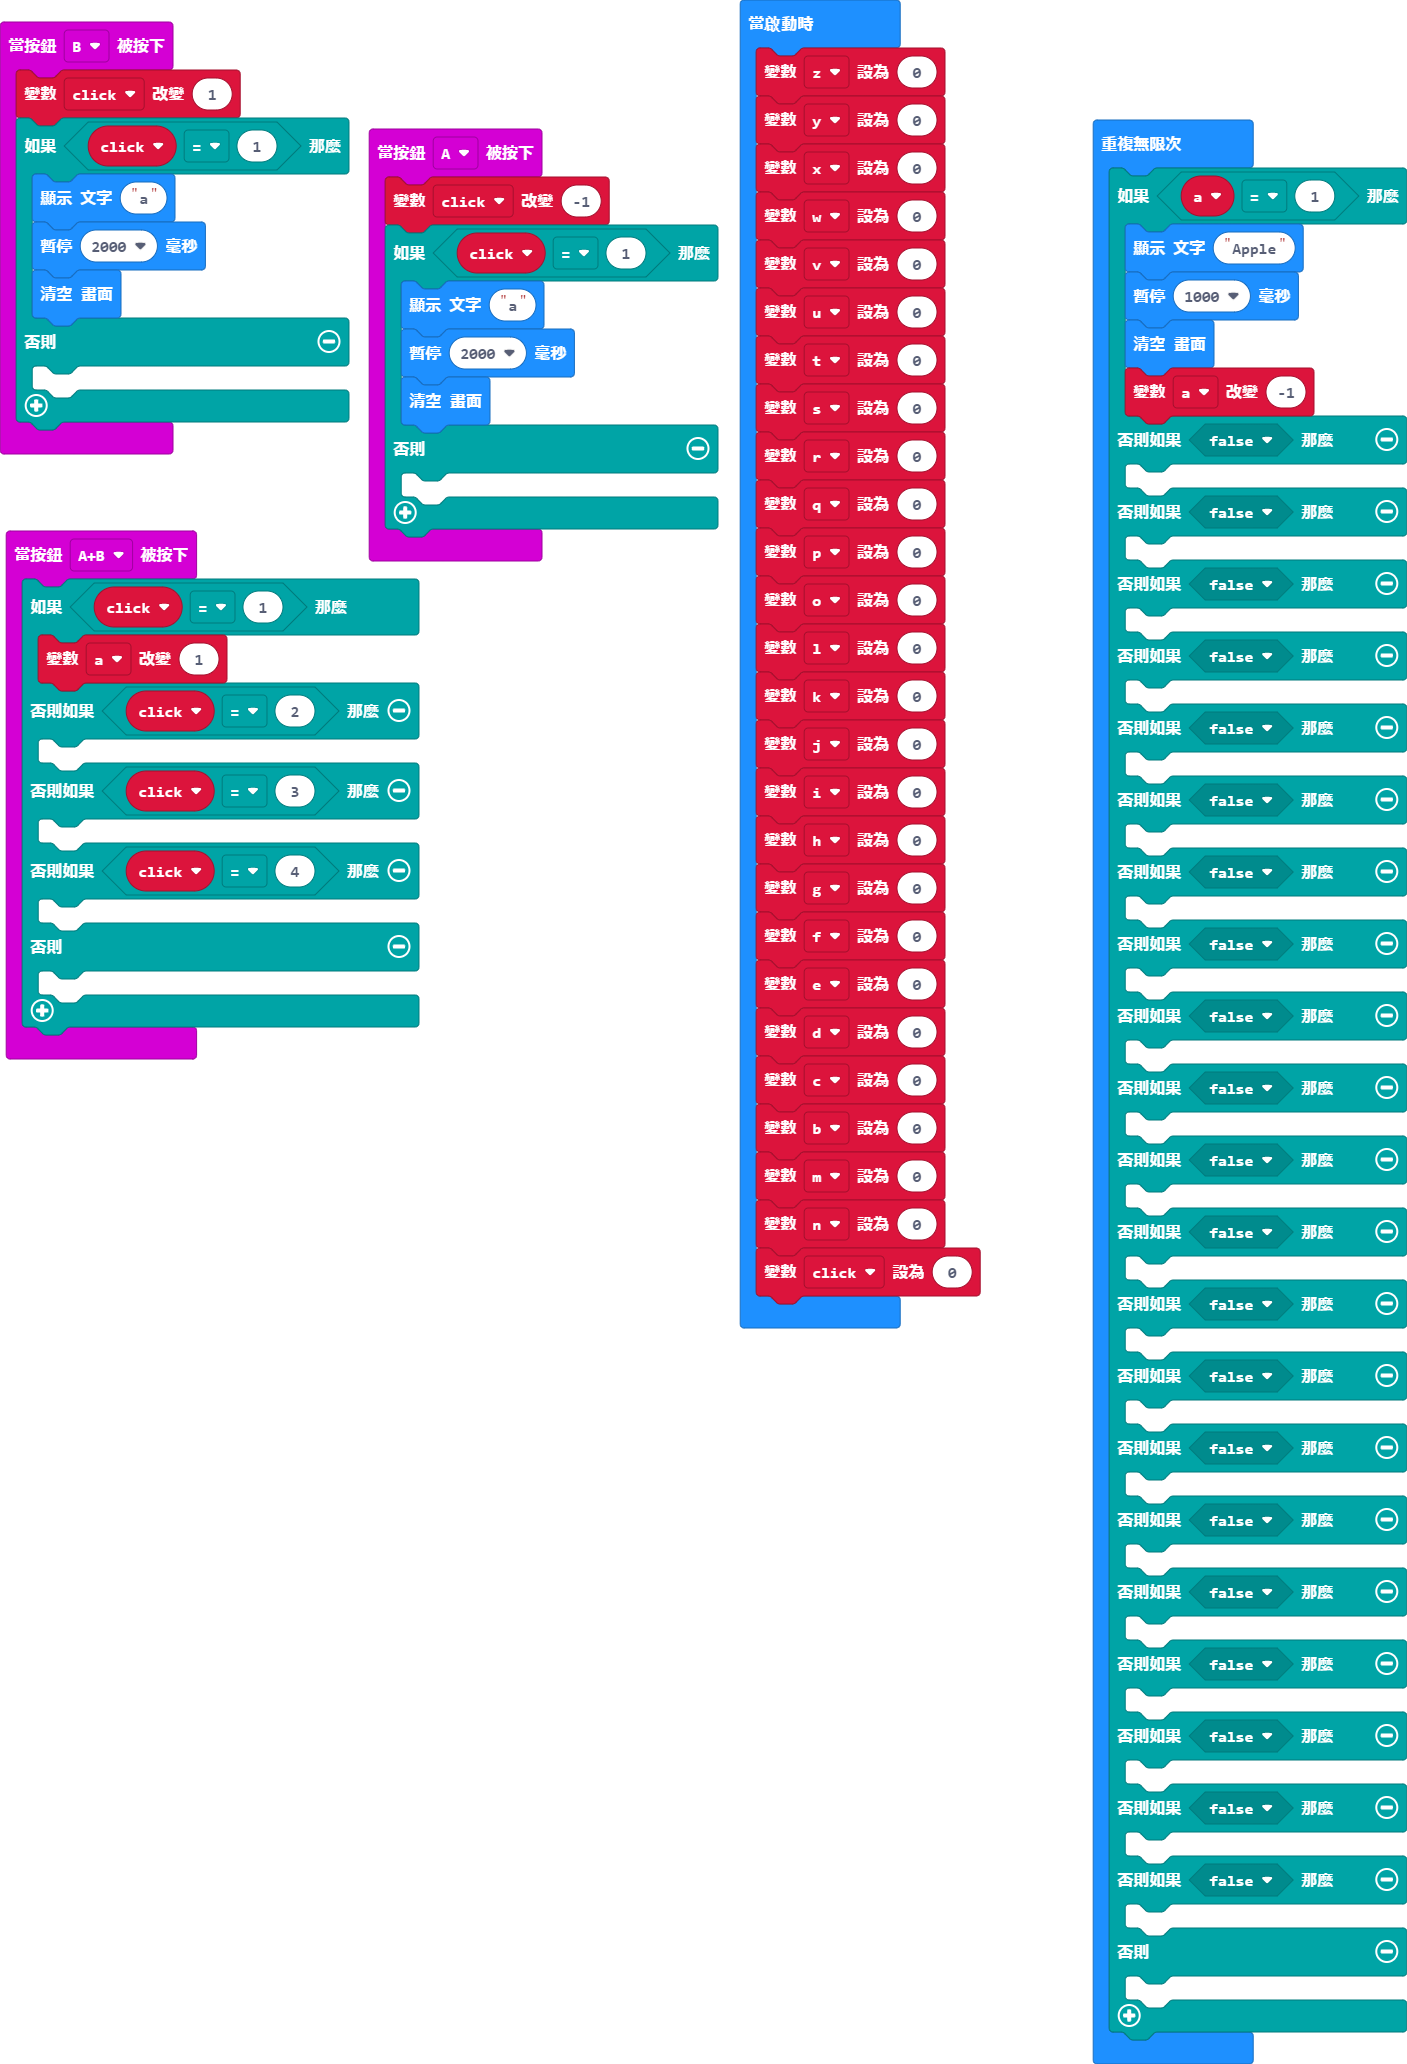
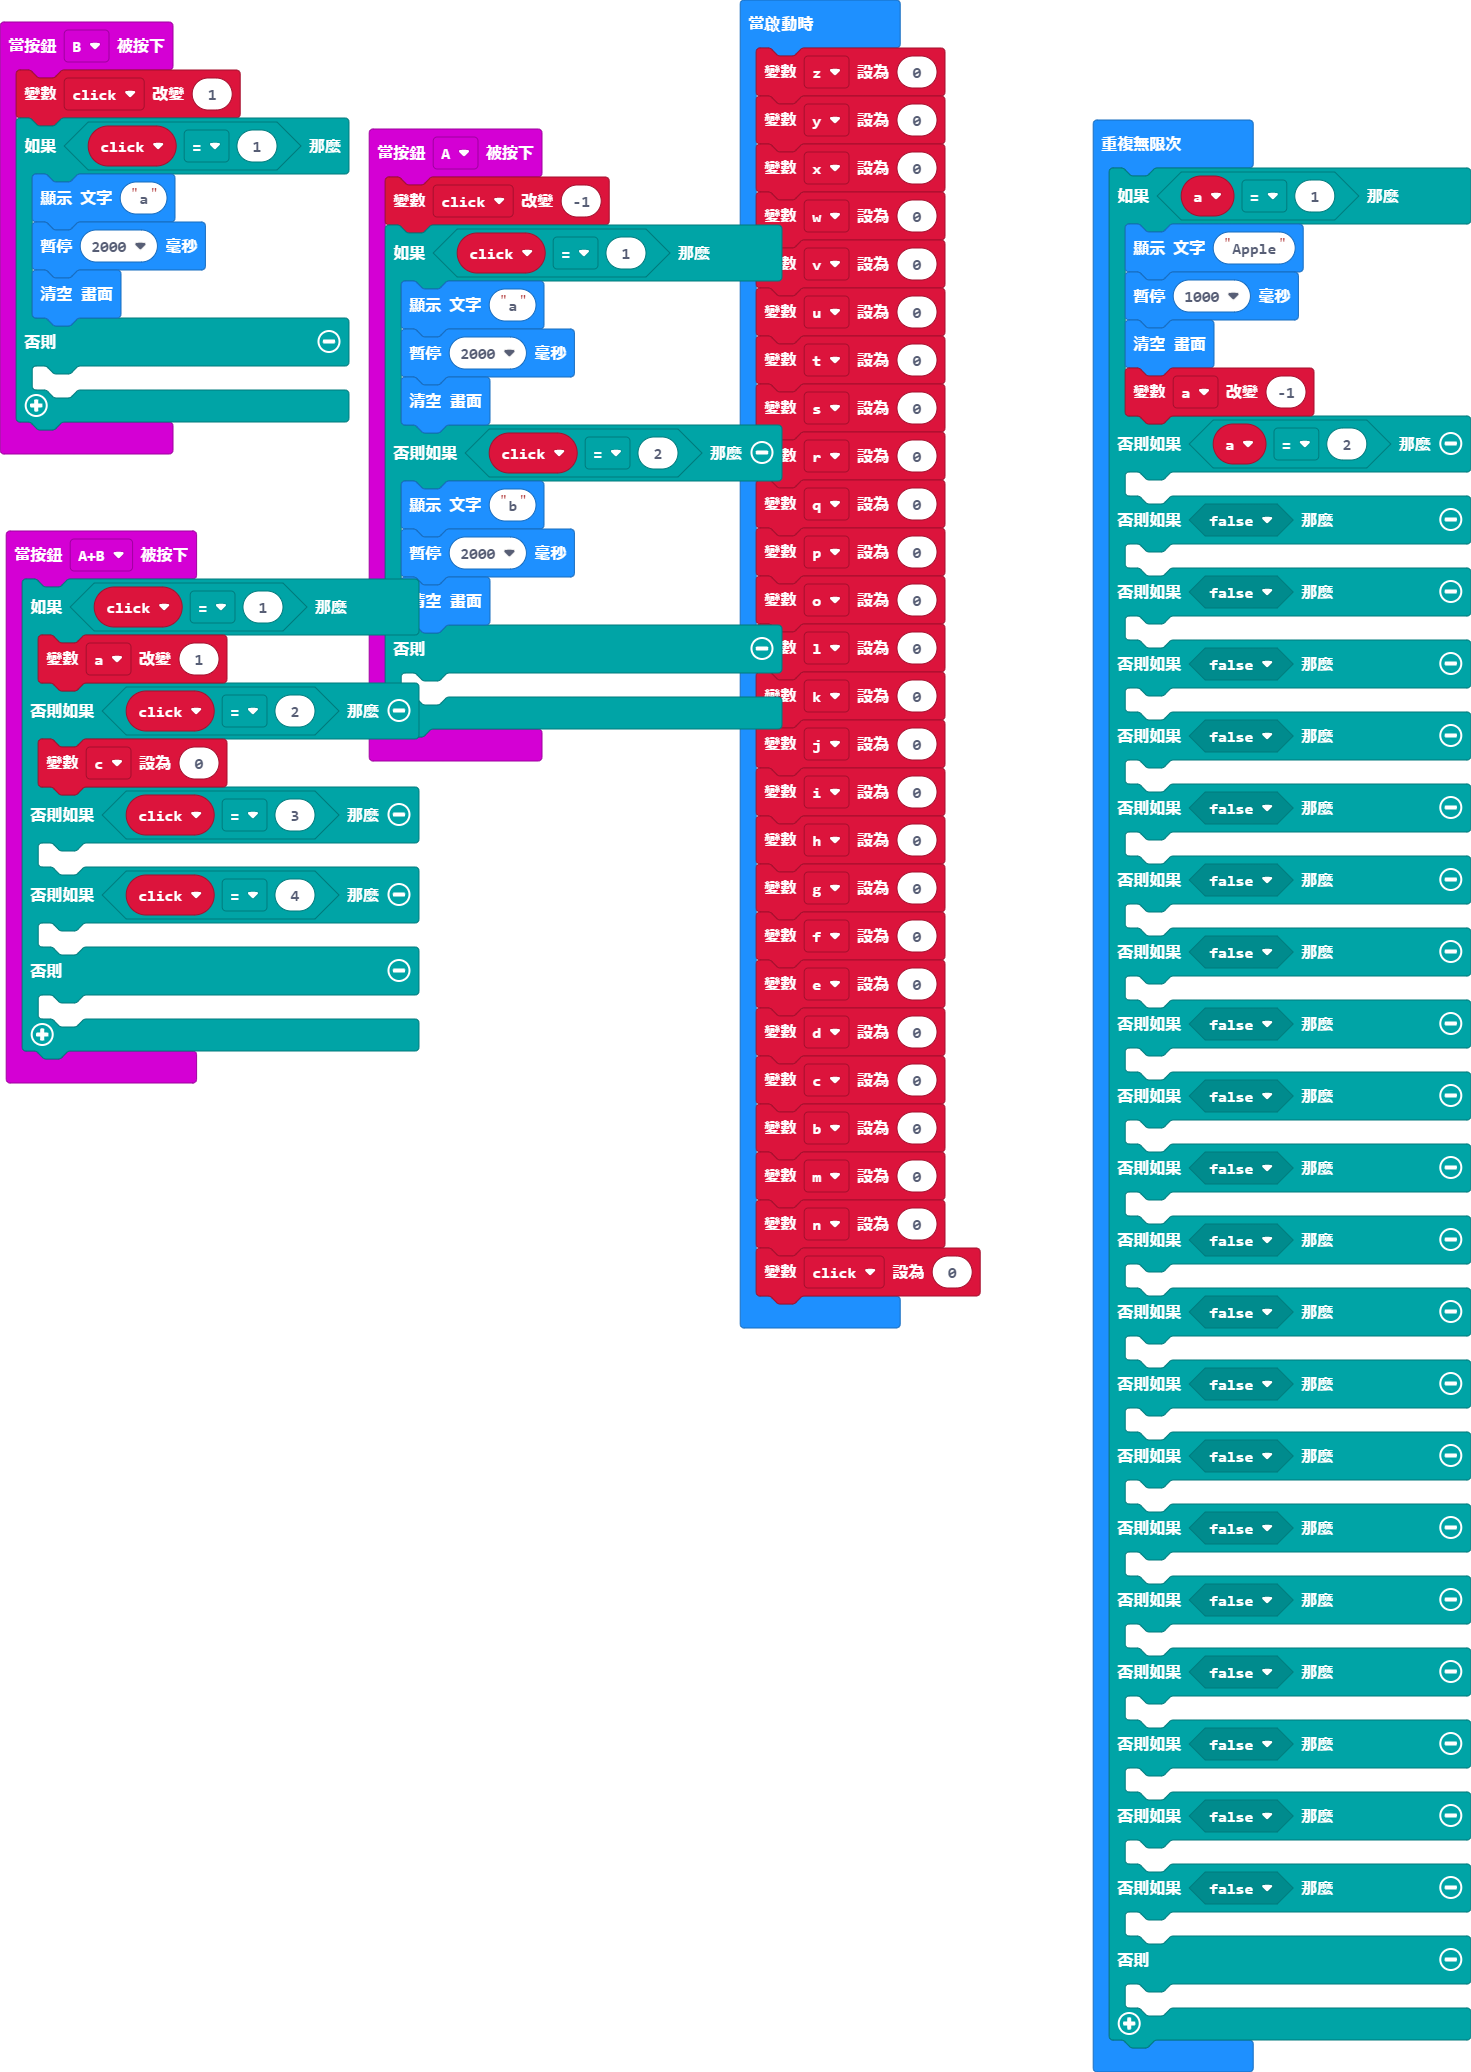
更新 main.blocks, main.ts, main.py

diff --git a/main.ts b/main.ts
@@ -4,6 +4,10 @@ input.onButtonPressed(Button.A, function () {
         basic.showString("a")
         basic.pause(2000)
         basic.clearScreen()
+    } else if (click == 2) {
+        basic.showString("b")
+        basic.pause(2000)
+        basic.clearScreen()
     } else {
     	
     }
@@ -12,7 +16,7 @@ input.onButtonPressed(Button.AB, function () {
     if (click == 1) {
         a += 1
     } else if (click == 2) {
-    	
+        c = 0
     } else if (click == 3) {
     	
     } else if (click == 4) {
@@ -33,6 +37,7 @@ input.onButtonPressed(Button.B, function () {
 })
 let a = 0
 let click = 0
+let c = 0
 let z = 0
 let y = 0
 let x = 0
@@ -54,7 +59,7 @@ let g = 0
 let f = 0
 let e = 0
 let d = 0
-let c = 0
+c = 0
 let b = 0
 let m = 0
 let n = 0
@@ -65,7 +70,7 @@ basic.forever(function () {
         basic.pause(1000)
         basic.clearScreen()
         a += -1
-    } else if (false) {
+    } else if (a == 2) {
     	
     } else if (false) {
     	

diff --git a/main.py b/main.py
@@ -5,6 +5,10 @@ def on_button_pressed_a():
         basic.show_string("a")
         basic.pause(2000)
         basic.clear_screen()
+    elif click == 2:
+        basic.show_string("b")
+        basic.pause(2000)
+        basic.clear_screen()
     else:
         pass
 input.on_button_pressed(Button.A, on_button_pressed_a)
@@ -36,31 +40,31 @@ input.on_button_pressed(Button.B, on_button_pressed_b)
 
 a = 0
 click = 0
-n = 0
-m = 0
-b = 0
-c = 0
-d = 0
-e = 0
-f = 0
-g = 0
-h = 0
-i = 0
-j = 0
-k = 0
-l = 0
-o = 0
-p = 0
-q = 0
-r = 0
-s = 0
-t = 0
-u = 0
-v = 0
-w = 0
-x = 0
-y = 0
 z = 0
+y = 0
+x = 0
+w = 0
+v = 0
+u = 0
+t = 0
+s = 0
+r = 0
+q = 0
+p = 0
+o = 0
+l = 0
+k = 0
+j = 0
+i = 0
+h = 0
+g = 0
+f = 0
+e = 0
+d = 0
+c = 0
+b = 0
+m = 0
+n = 0
 click = 0
 
 def on_forever():
